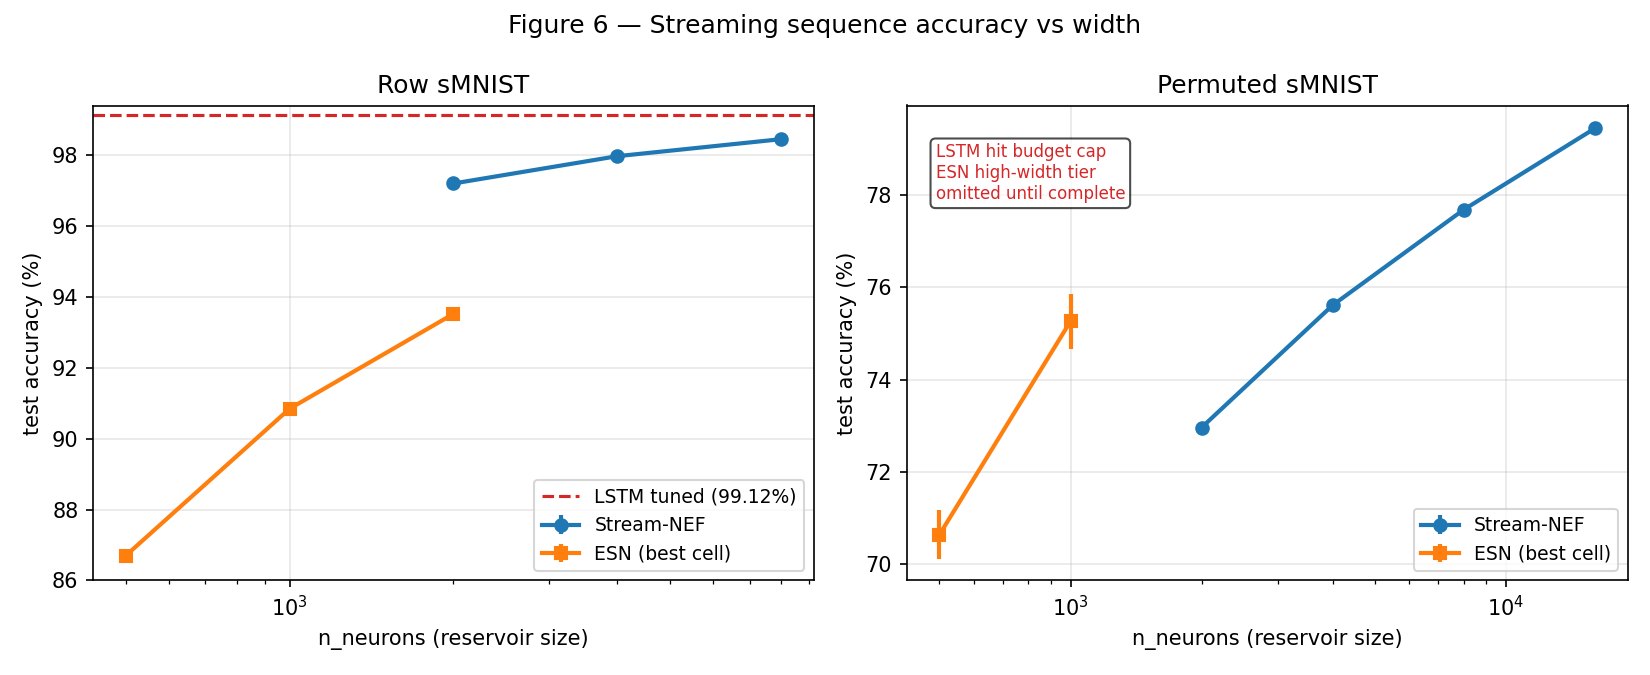
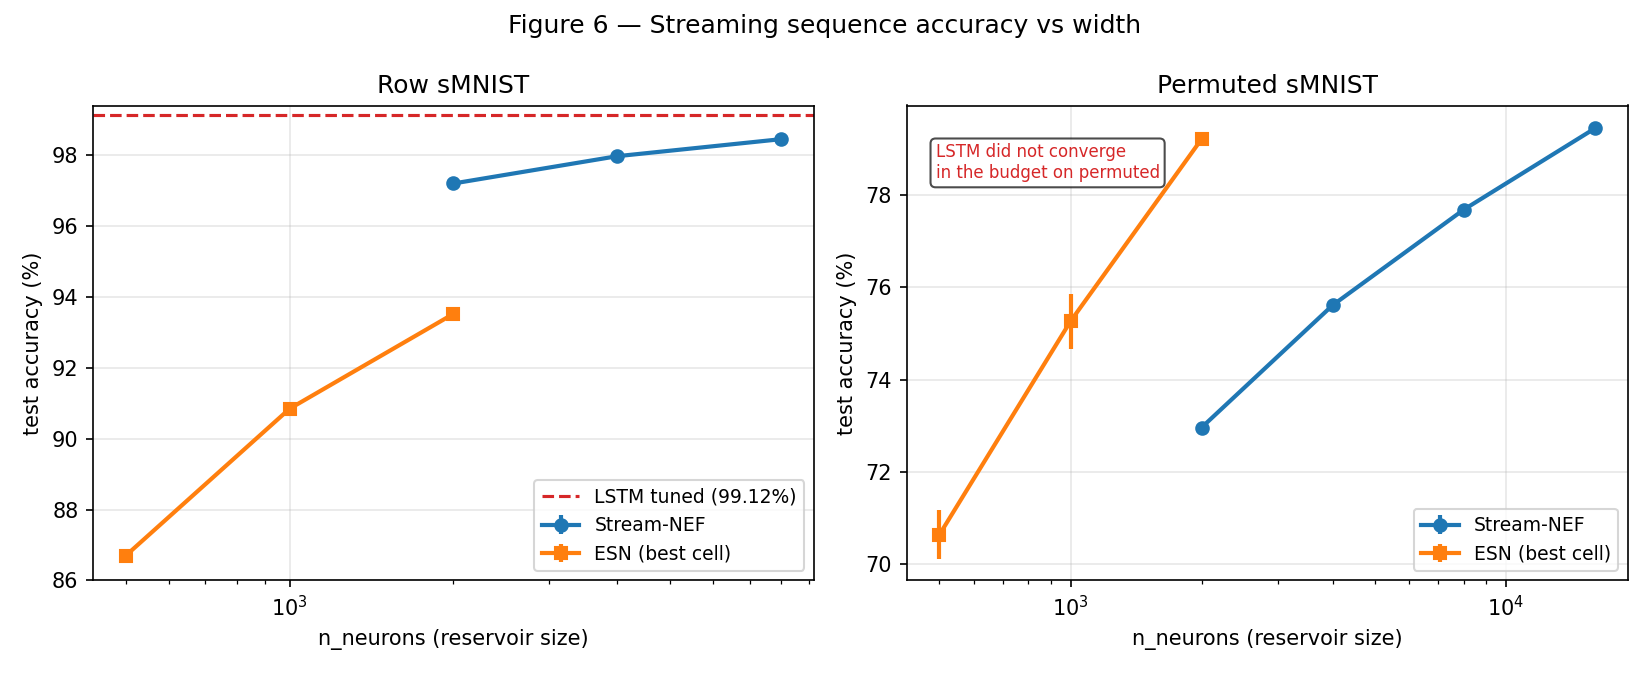
paper-i: fold B6 permuted ESN comparator into §6.3 and Figure 6
Replaces the in-flight placeholder for the permuted ESN comparator with the completed multi-seed panel. §6.3 now reports best ESN cell per reservoir width and the structural reading: ESN at n=2000 ties Stream-NEF at n=16000 within the joint SE, the recurrent-state advantage on distributed-signal data showing up as parameter efficiency. Figure 6 plots both methods on the permuted panel and replaces the stale 'omitted until complete' annotation with the LSTM-budget-cap caveat. Caption updated accordingly.

Changed region(s): [[0.5564, 0.1867, 0.7418, 0.3733], [0.6491, 0.3733, 0.68, 0.4667]]

diff --git a/docs/generate_paper_i_figures.py b/docs/generate_paper_i_figures.py
@@ -504,7 +504,7 @@ def figure_f8() -> Path:
     ax2.text(
         0.04,
         0.92,
-        "LSTM hit budget cap\nESN high-width tier\nomitted until complete",
+        "LSTM did not converge\nin the budget on permuted",
         transform=ax2.transAxes,
         fontsize=8,
         color="C3",

diff --git a/docs/paper_i.md b/docs/paper_i.md
@@ -692,9 +692,10 @@ under our seeding and code-identity discipline:
 
 ![Figure 6: Stream-NEF vs ESN and LSTM on row/permuted sMNIST.](figures/f6_streaming_accuracy.png)
 
-**Figure 6.**  Stream-NEF is strong on row sMNIST and structurally
-limited on permuted sMNIST.  The permuted panel reports only
-completed Stream-NEF and ESN rows.
+**Figure 6.**  Stream-NEF dominates the ESN on row sMNIST and
+ties it on permuted sMNIST at much larger reservoir width.  The
+permuted-panel ESN cell at `n = 2 000` matches the Stream-NEF
+cell at `n = 16 000` to well within the joint SE.
 
 ![Figure 7: row-sMNIST wall-clock/accuracy trade-off.](figures/f7_streaming_wall_accuracy.png)
 
@@ -731,22 +732,67 @@ part of the scientific comparison.
 
 Permuted sMNIST destroys spatial locality: each pixel becomes
 its own timestep with a fixed random permutation applied
-uniformly across the dataset (T = 784):
+uniformly across the dataset (T = 784).  Stream-NEF cells:
 
 | `n_neurons` | seeds | Stream-NEF accuracy ± SE | end-to-end wall-clock time (CPU, s/seed) |
 |-------------|-------|--------------------------|--------------------|
-| 2000 | 5 | 72.96 ± 0.07 % | 611 |
-| 4000 | 5 | 75.61 ± 0.05 % | 792 |
-| 8000 | 10 | 77.68 ± 0.04 % | 2450 |
-| 16000 | 10 | 79.44 ± 0.03 % | 4780 |
+| 2000 | 5 | 72.96 ± 0.07 % | 559 |
+| 4000 | 5 | 75.61 ± 0.05 % | 794 |
+| 8000 | 10 | 77.68 ± 0.04 % | 2 450 |
+| 16000 | 10 | **79.44 ± 0.03 %** | 4 779 |
 
-Scaling remains monotone: +2.65 pp from 2000 to 4000 neurons,
-+2.07 pp from 4000 to 8000, and +1.76 pp from 8000 to
-16000.  The larger cells raise the ceiling but do not remove the
-qualitative limitation: permuted sMNIST exposes the **mean-pool
-limitation of Stream-NEF**, and the final ranking against
-reservoir-state baselines should be read only after the completed
-ESN panel is available.
+Scaling remains monotone: +2.65 pp from 2 000 to 4 000 neurons,
++2.07 pp from 4 000 to 8 000, and +1.76 pp from 8 000 to
+16 000.  The larger cells raise the ceiling but the slope is
+flattening, consistent with a structural mean-pool ceiling rather
+than a parameter-count regime that just needs more neurons.
+
+The apples-to-apples ESN comparator (same fixed-feature +
+linear-readout family) is now complete.  Best cell per `n`,
+under the same code identity:
+
+| `n_reservoir` | seeds | best ESN accuracy ± SE | (sr, leak) | end-to-end wall-clock time (CPU, s/seed) |
+|---------------|-------|------------------------|------------|--------------------|
+|   500 | 5 | 70.64 ± 0.53 % | (0.95, 0.3) |   529 |
+| 1 000 | 5 | 75.26 ± 0.59 % | (0.95, 0.3) | 2 073 |
+| 2 000 | 5 | **79.21 ± 0.13 %** | (0.95, 0.3) | 3 785 |
+
+The story is that recurrent state buys parameter efficiency on
+permuted sMNIST.  ESN at `n = 2 000` matches Stream-NEF at
+`n = 16 000` to within 0.2 pp and well inside the joint SE — the
+two methods land on the same accuracy at this budget, and the
+sign of the gap is not statistically meaningful.  ESN at
+`n = 1 000` already matches Stream-NEF at `n = 4 000` (75.26 vs
+75.61) using a quarter of the reservoir width.  This is exactly
+what the architectures predict: when the discriminative signal
+is spread across all 784 randomly-ordered timesteps, a
+recurrent state that integrates across the whole sequence has a
+built-in advantage over a `K`-step delay-line window of length
+10 that sees each pixel's randomized neighborhood only once.
+
+Wall-clock comparison at the matched-accuracy point is roughly
+1.3× in the ESN's favor (3 785 s vs 4 779 s/seed), so the speed
+gap that dominated row sMNIST has closed too — the ESN spends
+its compute on a recurrent matrix-vector product per timestep,
+the Stream-NEF on a `K`-fold larger encoder bank, and on
+permuted sMNIST the recurrent path is the better trade.
+
+The vanilla LSTM baseline did not converge in our compute
+budget; vanilla LSTM on permuted sMNIST is well-documented to
+need curriculum or initialization tricks to escape ~50 %, and
+our attempted panel stopped at 2 / 90 cells.  We treat that as
+a compute-budget cap rather than a finished baseline, and the
+comparison we report is therefore between the two fixed-feature
+methods plus what the recurrent literature has reported
+elsewhere.
+
+The headline reading is simple.  On row sMNIST Stream-NEF
+dominates the ESN (the coherent-slice geometry favors mean
+pool); on permuted sMNIST the two methods converge from
+opposite directions and the ESN gets there with fewer
+parameters (the distributed-signal geometry favors recurrent
+state).  The mean-pool limit of Stream-NEF is real, but it is a
+parameter-efficiency limit at this task, not an absolute one.
 
 ### §6.4 — Limits
 
